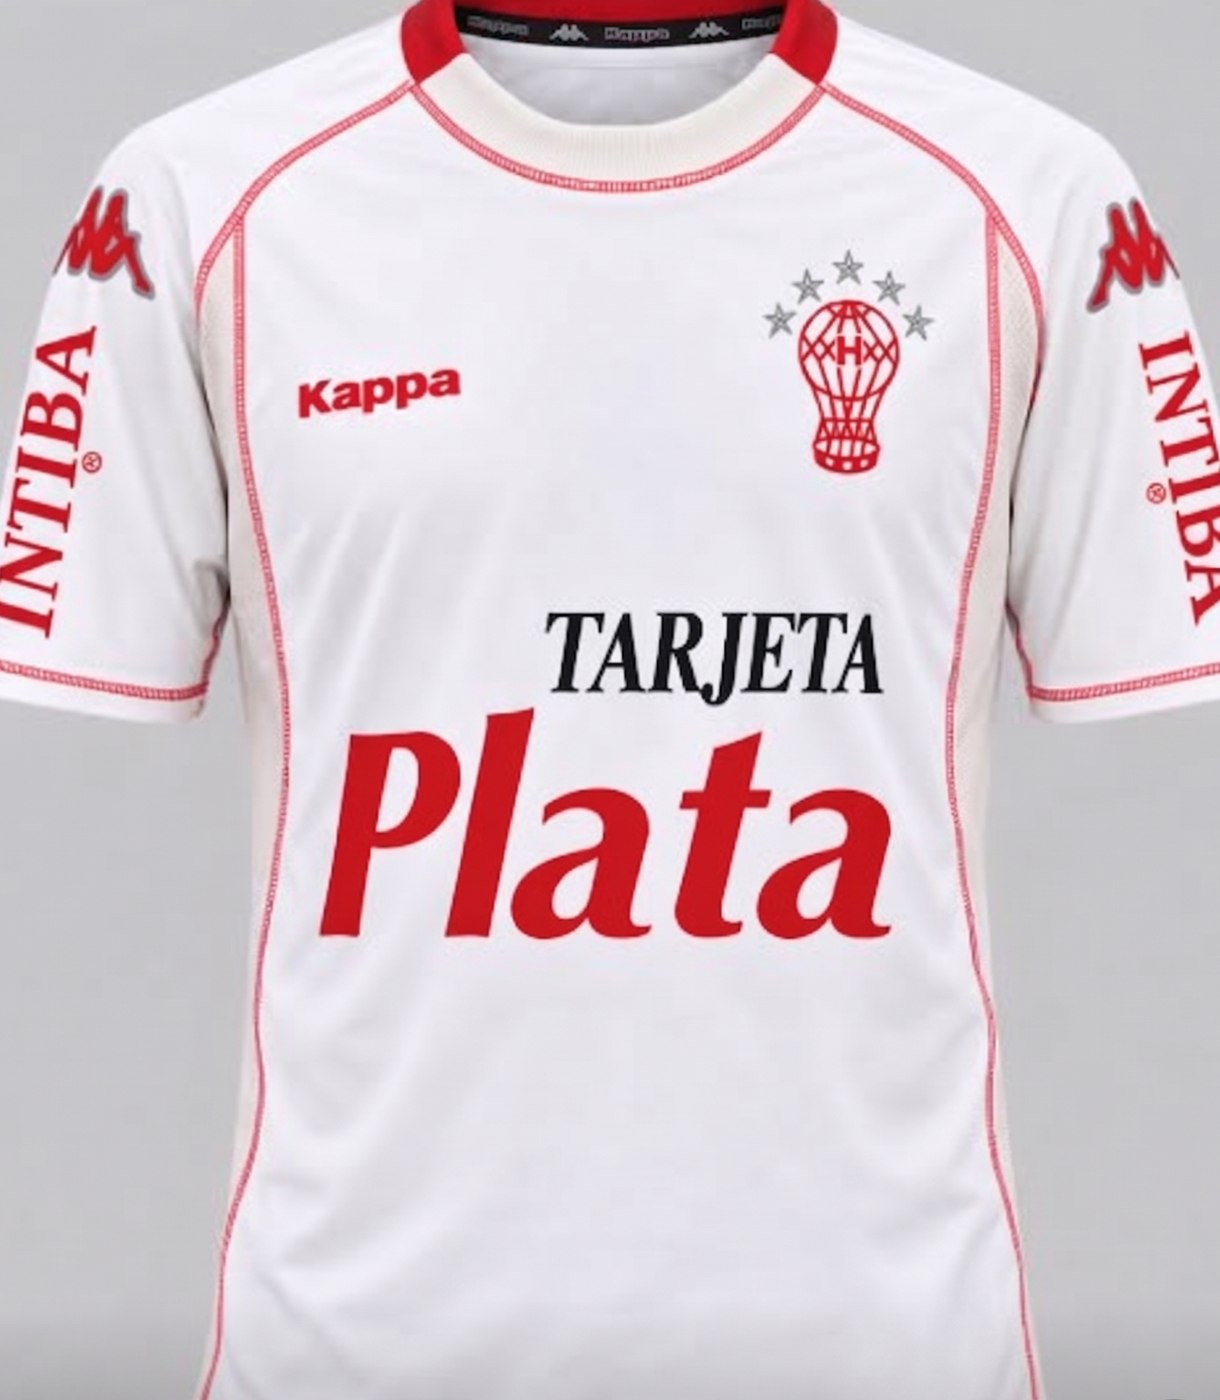
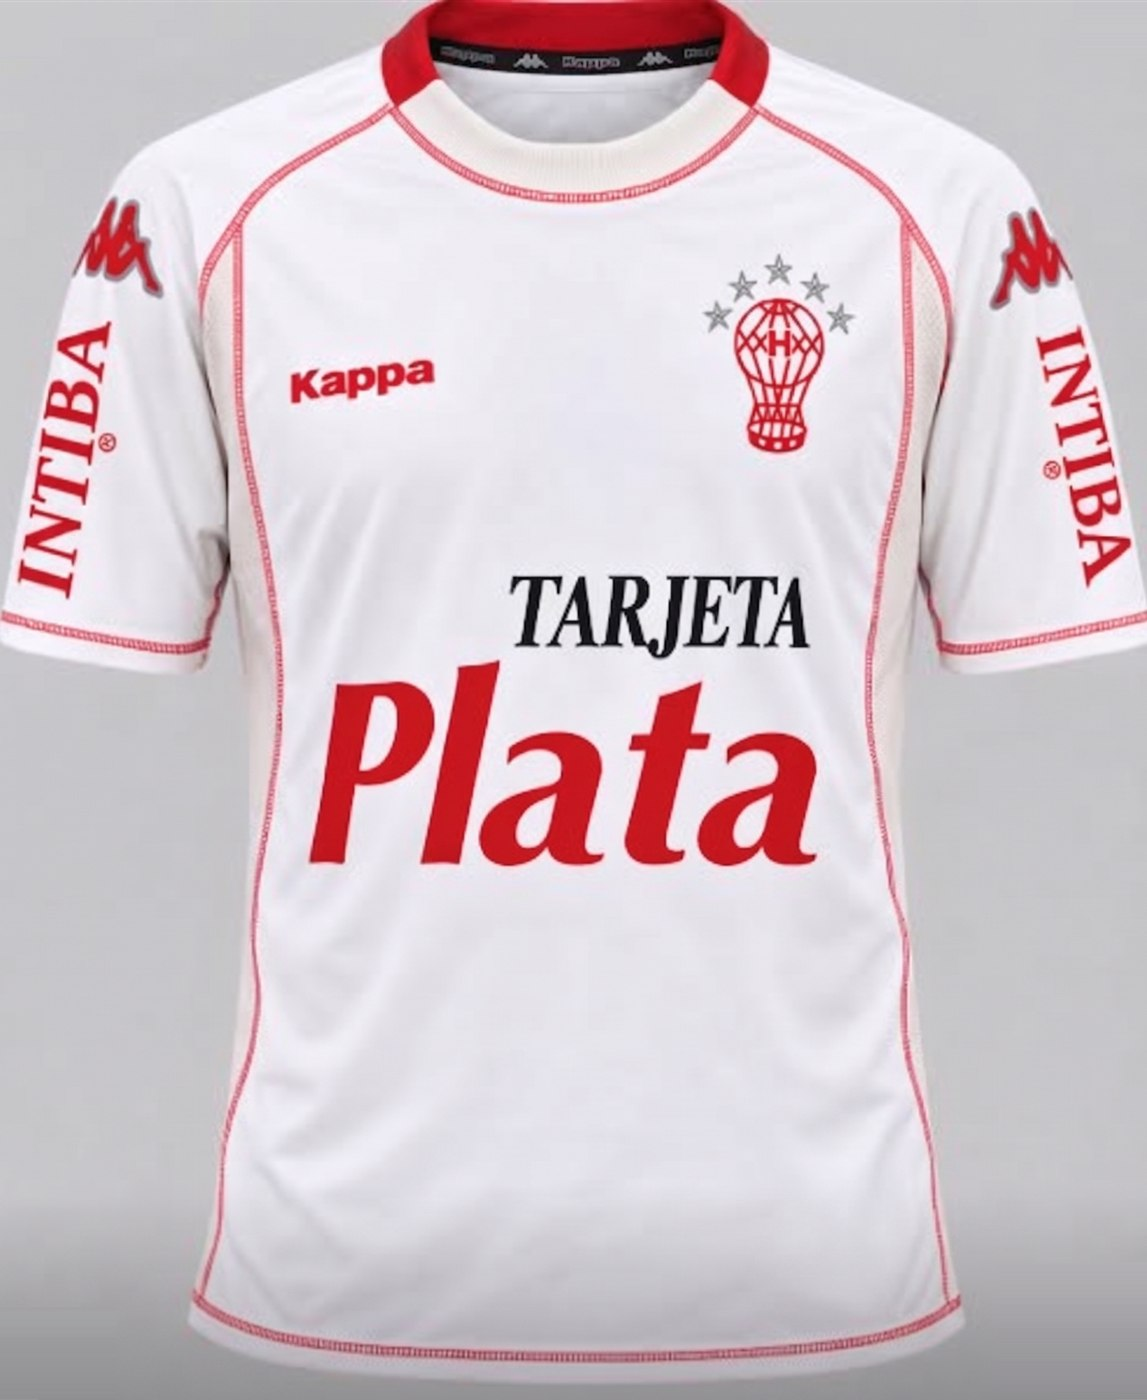
Limpiar dos fotos que eran capturas y avisar cuando faltan los partidos de una temporada
La Kappa 2005-06 y la edición especial Joma 2013 traían botones del
celular (Editar, compartir) y el borde de la pantalla: se taparon con el
gris del fondo, sin cortar mangas ni ruedo. La 1999-00 tiene camisetas pero
el archivo no tiene sus partidos: ahora lo dice en vez de mostrar 0.

diff --git a/css/views.css b/css/views.css
@@ -767,6 +767,11 @@ textarea.field{ resize: vertical; min-height: 88px; line-height: 1.5; }
 }
 .tl-year__num:hover{ color: var(--red); }
 /* la cola de una temporada partida ('-03'), debajo del año de arranque */
+/* temporada con camisetas pero sin partidos en el archivo */
+.tl-year__missing{
+  margin-top: 14px; padding: 12px 16px; border: 1px dashed var(--line-2);
+  border-radius: var(--r-md, 12px); color: var(--ink-3); font-size: var(--fs-xs);
+}
 .tl-year__tail{ display: block; text-align: right; font-size: .55em; color: var(--ink-3); margin-top: 4px; }
 .tl-year__dot{
   position: absolute; right: 2px; top: 6px; width: 12px; height: 12px;

diff --git a/js/views/camisetas.js b/js/views/camisetas.js
@@ -157,7 +157,7 @@ function yearBlockHTML(season, kits) {
               <span>Los ${plural(matches.length, 'partido', 'partidos')} de ${season}, uno por uno</span>
             </span>
             <span class="tl-year__cta-arrow">${icon('arrowRight')}</span>
-          </a>` : ''}
+          </a>` : `<p class="tl-year__missing mono">Faltan cargar los partidos de ${season}</p>`}
       </div>
     </section>`;
 }
